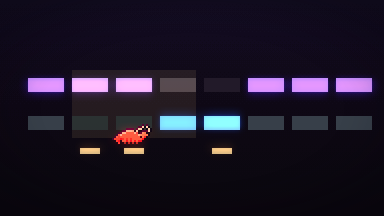
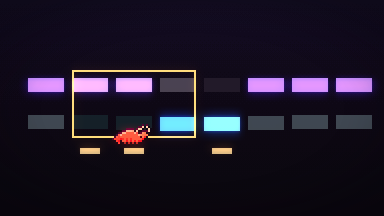
fix: polish clock, mask, count, and flip (#28)
Clock searches two plies further. Mask draws a moving visor and a pulsing flood. Count and flip shake when you fall.

diff --git a/web/src/games/claw-mask.ts b/web/src/games/claw-mask.ts
@@ -26,23 +26,32 @@ function createScene(): GameScene<MaskState> {
         }));
     },
     draw(f) {
-      const { g, state } = f;
+      const { g, t, state } = f;
       sky(g, ['#181028', '#100818', '#0c0810'], 0, 216, 6);
       for (let i = 0; i < 8; i += 1) {
         const x = 28 + i * 44;
         const ink = state.ink[i] === 'walk';
         const tide = state.tide[i] === 'walk';
         const showInk = covered(state.mask, i);
+        const wave = Math.round(Math.sin(t * 2 + i) * 1);
         rect(g, x, 78, 36, 14, ink ? '#c49aff' : '#2a2030');
-        rect(g, x, 116, 36, 14, tide ? '#7ec8ff' : '#1a2830');
-        rect(g, x, showInk ? 78 : 116, 36, 14, withAlpha('#ffffff', 0.18));
+        rect(g, x, 116 + wave, 36, 14, tide ? '#7ec8ff' : '#1a2830');
+        rect(g, x, showInk ? 78 : 116 + wave, 36, 14, withAlpha('#ffffff', 0.22));
         if (visible(state, i) === 'walk') rect(g, x + 8, 148, 20, 6, '#d8c090');
       }
-      rect(g, 28 + state.mask * 44, 70, 44 * 3 - 8, 68, withAlpha('#ffe08a', 0.12));
+      const visor = 28 + state.mask * 44;
+      rect(g, visor, 70, 44 * 3 - 8, 2, '#ffe08a');
+      rect(g, visor, 136, 44 * 3 - 8, 2, '#ffe08a');
+      rect(g, visor, 70, 2, 68, '#ffe08a');
+      rect(g, visor + 44 * 3 - 10, 70, 2, 68, '#ffe08a');
       const shrimp = buildSprite(SHRIMP);
       const px = state.pos < 0 ? 16 : 46 + state.pos * 44;
-      blit(g, shrimp, px, 146, { scale: 2, anchor: 'bc' });
-      if (state.flood >= 0) rect(g, 28, 156, Math.min(8, state.flood) * 44, 4, '#ff5d73');
+      const bob = Math.round(Math.sin(t * 3) * 1);
+      blit(g, shrimp, px, 146 + bob, { scale: 2, anchor: 'bc' });
+      if (state.flood >= 0) {
+        const pulse = Math.round(Math.sin(t * 6) * 1);
+        rect(g, 28, 158 + pulse, Math.min(8, state.flood + 1) * 44, 4, '#ff5d73');
+      }
       f.actions
         .filter((action) => action.id === 'step' || action.id.startsWith('mask:'))
         .forEach((action, index) => {
@@ -50,6 +59,11 @@ function createScene(): GameScene<MaskState> {
           if (!label) return;
           drawText(g, label, 78 + index * 118, 176, { color: '#fff4d6', align: 'center' });
         });
+    },
+    react(f, outcome) {
+      const fell = outcome.result.log.some((line) => line.includes('坠落'));
+      f.cue(fell ? 'splash' : 'whoosh');
+      if (fell) f.fx.addTrauma(0.4);
     },
   };
 }

diff --git a/web/src/games/claw-clock.ts b/web/src/games/claw-clock.ts
@@ -3,7 +3,7 @@ import type { ClockState, Token } from '@games/claw-clock/src/engine';
 import type { Grade } from '../gfx/art';
 import { sky } from '../gfx/backdrop';
 import { glow } from '../gfx/fx';
-import { disc } from '../gfx/pixel';
+import { disc, rect } from '../gfx/pixel';
 import { type GameModule, type GameScene, type HitRegion, say } from '../gfx/scene';
 import { buildSprite, SHRIMP } from '../gfx/sprites';
 import { drawText } from '../gfx/text';
@@ -36,6 +36,12 @@ function createScene(): GameScene<ClockState> {
       sky(g, ['#201018', '#14080c', '#0c0808'], 0, 216, 6);
       disc(g, 192, 100, 78, '#1a1014');
       disc(g, 192, 100, 62, '#2a1820');
+      for (let i = 0; i < 8; i += 1) {
+        const angle = (i / 8) * Math.PI * 2 - Math.PI / 2;
+        const x = 192 + Math.round(Math.cos(angle) * 86);
+        const y = 100 + Math.round(Math.sin(angle) * 86);
+        rect(g, x, y, i === state.hand ? 4 : 2, i === state.hand ? 4 : 2, '#ffc24a');
+      }
       const shrimp = buildSprite(SHRIMP);
       state.ring.forEach((token, index) => {
         const angle = (index / 8) * Math.PI * 2 - Math.PI / 2;
@@ -60,7 +66,18 @@ function createScene(): GameScene<ClockState> {
     react(f, outcome) {
       const tick = outcome.events.find((event) => event.type === 'tick');
       if (!tick) return;
-      f.cue(Number(tick.wounds) > 0 ? 'bad' : 'hit');
+      const wounded = outcome.result.log.some((line) => line.includes('击中了你'));
+      f.cue(wounded ? 'bad' : 'hit');
+      const angle = (f.state.hand / 8) * Math.PI * 2 - Math.PI / 2;
+      const x = 192 + Math.round(Math.cos(angle) * 70);
+      const y = 100 + Math.round(Math.sin(angle) * 70);
+      f.fx.burst(x, y, {
+        count: 10,
+        colors: wounded ? ['#ff5d73', '#fff6dc'] : ['#ffc24a', '#fff6dc'],
+        speed: 28,
+        life: 0.35,
+      });
+      if (wounded) f.fx.addTrauma(0.35);
     },
   };
 }

diff --git a/web/src/games/claw-flip.ts b/web/src/games/claw-flip.ts
@@ -54,8 +54,19 @@ function createScene(): GameScene<FlipState> {
       });
     },
     react(f, outcome) {
-      if (outcome.events.some((event) => event.type === 'flip')) f.cue('whoosh');
-      if (outcome.result.log.some((line) => line.includes('踩伤'))) f.cue('bad');
+      if (outcome.events.some((event) => event.type === 'flip')) {
+        f.cue('whoosh');
+        f.fx.burst(192, 140, {
+          count: 8,
+          colors: ['#ffc24a', '#7ec8ff'],
+          speed: 24,
+          life: 0.3,
+        });
+      }
+      if (outcome.result.log.some((line) => line.includes('踩伤'))) {
+        f.cue('bad');
+        f.fx.addTrauma(0.3);
+      }
     },
   };
 }

diff --git a/web/src/games/claw-count.ts b/web/src/games/claw-count.ts
@@ -61,7 +61,10 @@ function createScene(): GameScene<CountState> {
       if (outcome.events.some((event) => event.type === 'step')) f.cue('land');
       if (outcome.events.some((event) => event.type === 'magnet')) f.cue('coin');
       const fell = outcome.result.log.some((line) => line.includes('坠落'));
-      if (fell) f.cue('bad');
+      if (fell) {
+        f.cue('bad');
+        f.fx.addTrauma(0.35);
+      }
     },
   };
 }

diff --git a/games/claw-clock/src/engine.ts b/games/claw-clock/src/engine.ts
@@ -199,7 +199,7 @@ export function suggest(state: ClockState): string {
   for (const id of options) {
     const next = clone(state);
     apply(next, id, null, []);
-    visit(next, 2, id);
+    visit(next, 4, id);
   }
   return best;
 }

diff --git a/docs/plans/2026-11-14-jam-polish-eight.md b/docs/plans/2026-11-14-jam-polish-eight.md
@@ -1,0 +1,30 @@
+# Plan — polish stamp, melt, net, beat, count, mask, clock, flip
+
+Date: 2026-11-14 · Status: implemented on `cursor/jam-polish-eight-4b38`
+
+## Goal
+
+Polish only these eight jam games. Lane B owns round, coil, sum, berth,
+delve, fair, reef, lamp, raft, stow, and glass. Do not edit those.
+
+## What two seeds on the dev server, plus twelve engine seeds, showed
+
+- Stamp, melt, net, beat, count, and flip already separate a careful line from
+  a blunt one, and their scenes already move and react. Ladder formulas stay.
+- Clock's search wins 6 of 12 seeds. Look further along the ring.
+- Mask paints a still frame. The three-cell visor and the flood are easy to
+  miss.
+- Count and flip cue a fall, then the picture does not shake.
+
+## Scope
+
+- Clock: search two more plies.
+- Mask: a moving visor, a pulsing flood, and a splash when you fall.
+- Count and flip: a hit reaction on a fall.
+- One PR off current `main`. Do not merge, deploy, or tag.
+
+## Checklist
+
+- [x] Clock search and the three scene reactions
+- [x] Replay clock and mask
+- [x] lint, check, test, validate:catalog, build

diff --git a/docs/plans/README.md b/docs/plans/README.md
@@ -3,7 +3,8 @@
 Write a new plan here before a large change: a new game, an engine rewrite, an
 MCP or leaderboard change, or a docs restructure.
 
-Current working plans: [`2026-11-14-jam-slate.md`](2026-11-14-jam-slate.md),
+Current working plans: [`2026-11-14-jam-polish-eight.md`](2026-11-14-jam-polish-eight.md),
+[`2026-11-14-jam-slate.md`](2026-11-14-jam-slate.md),
 [`2026-11-14-jam-batch-2.md`](2026-11-14-jam-batch-2.md),
 [`2026-11-14-jam-batch-3.md`](2026-11-14-jam-batch-3.md),
 [`2026-11-14-jam-batch-4.md`](2026-11-14-jam-batch-4.md),

diff --git a/CHANGELOG.md b/CHANGELOG.md
@@ -2,6 +2,9 @@
 
 ## Unreleased
 
+- Played `虾印`, `虾熔`, `虾网`, `虾节`, `虾数`, `虾罩`, `虾钟`, and `虾拨`.
+  Clock looks two plies further. Mask shows a moving visor and a pulsing
+  flood. Count and flip shake when you fall.
 - Added four games: `虾灯 (Claw Lamp)`, `虾筏 (Claw Raft)`, `虾仓 (Claw Stow)`,
   and `虾镜 (Claw Glass)`. Lamp lights pools that must not see each other.
   Raft balances three holds against a known gust. Stow pulls the bay a slip
